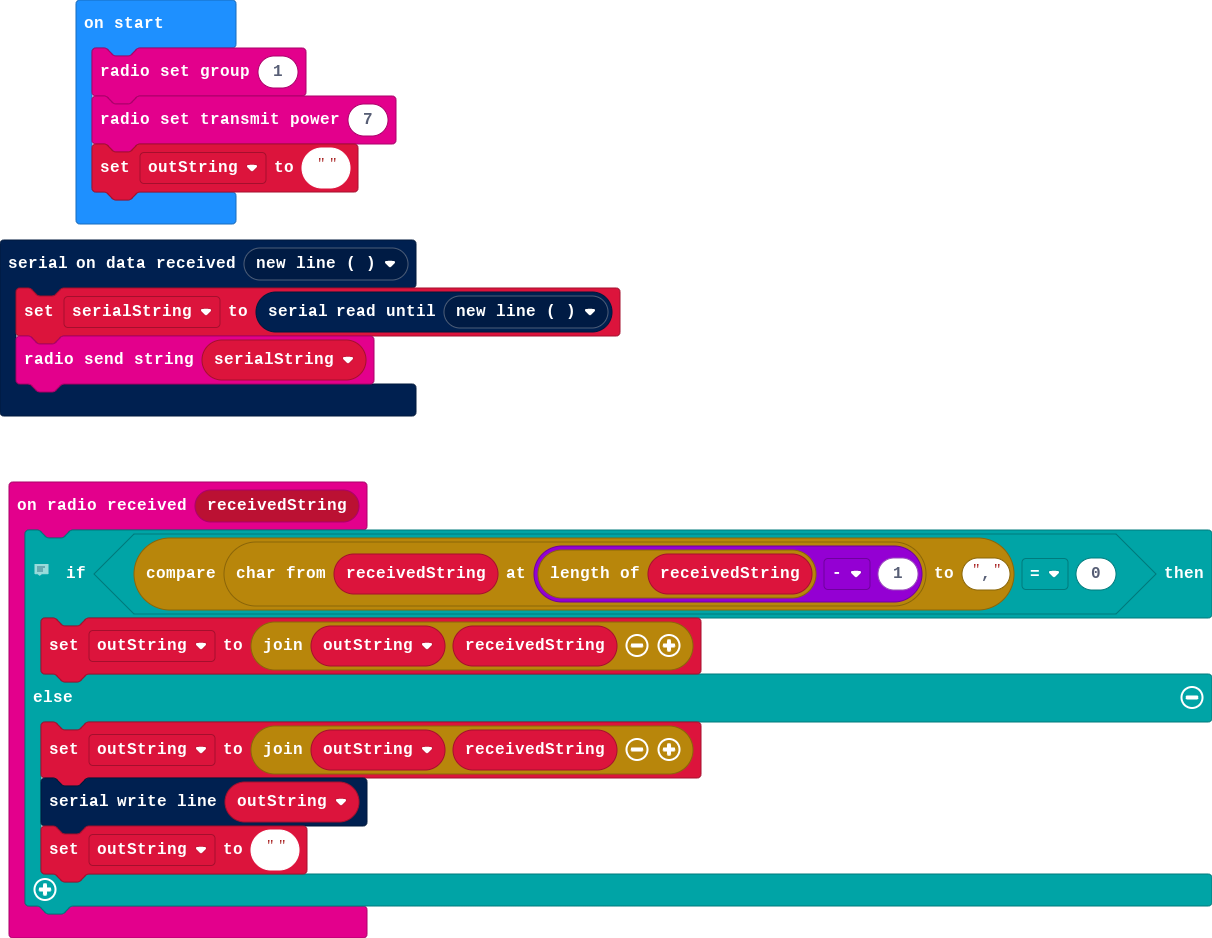
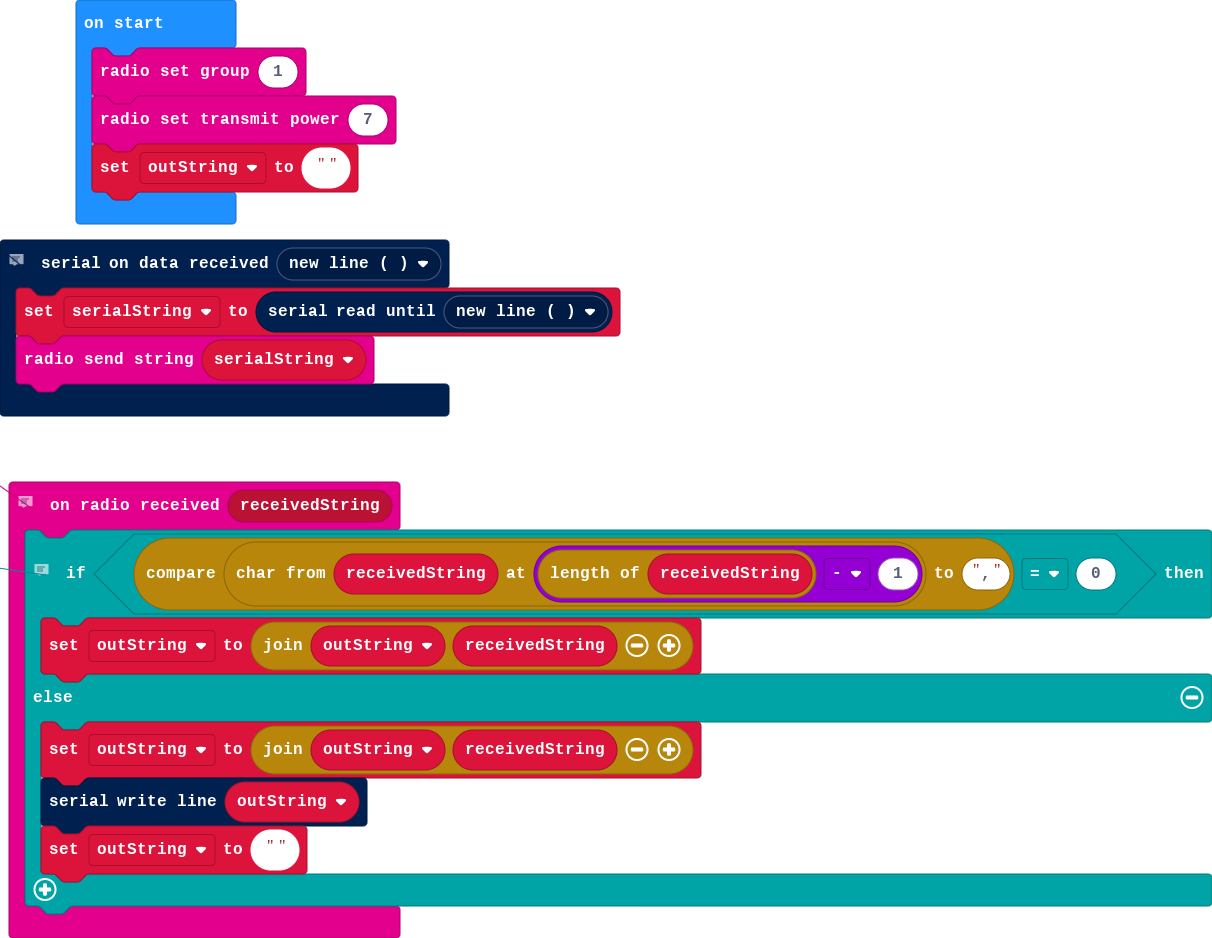
comments added

diff --git a/main.ts b/main.ts
@@ -1,3 +1,4 @@
+// Get data from logger microbit, relay to terminal
 radio.onReceivedString(function (receivedString) {
     // Send only completed messages (i.e. does not end in comma)
     if (receivedString.charAt(receivedString.length - 1).compare(",") == 0) {
@@ -8,6 +9,7 @@ radio.onReceivedString(function (receivedString) {
         outString = ""
     }
 })
+// Get command from terminal, relay to logger microbit
 serial.onDataReceived(serial.delimiters(Delimiters.NewLine), function () {
     serialString = serial.readUntil(serial.delimiters(Delimiters.NewLine))
     radio.sendString(serialString)
